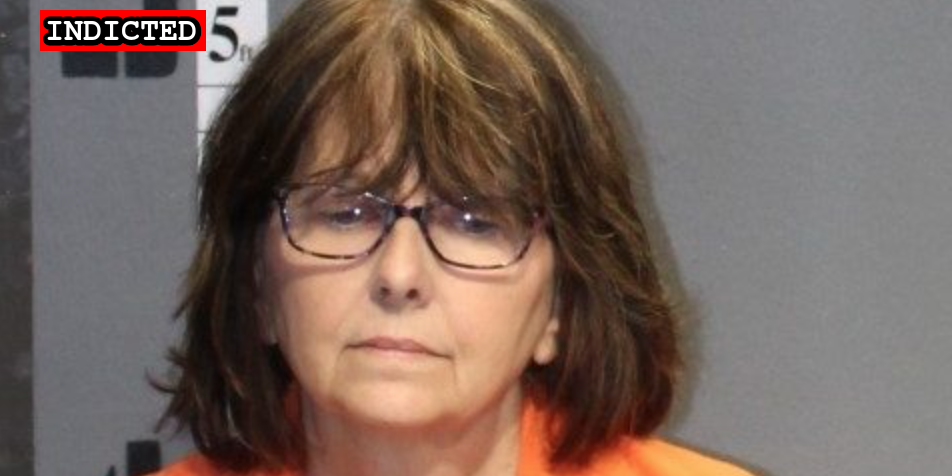
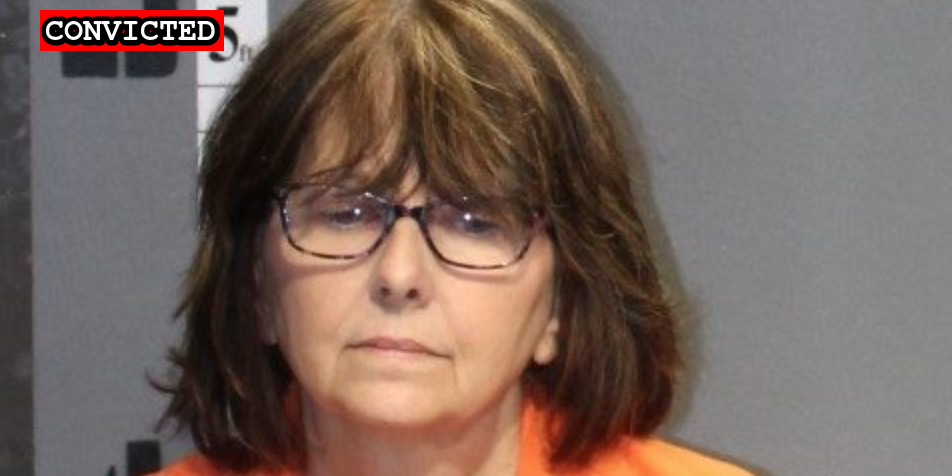
Latest import

Changed region(s): [[0.0305, 0.0, 0.2437, 0.1176]]

diff --git a/commands/suspect-import.ts b/commands/suspect-import.ts
@@ -284,9 +284,23 @@ const linkType = (description: string, lastName?: string) => {
     description = description.replace(/&#39;/g, "'")
 
     switch(true) {
+      case /Detention Order/.test(description):
+        return "Detention Order"
       case /Plea Agreement/.test(description):
       case /Grods Plea/.test(description):
         return "Plea Agreement"
+      case /Government's Motion to Continue/.test(description):
+        return "Government motion to Continue"
+      case /Defense Opposition to Government's Motion to Continue/.test(description):
+        return "Defense Opposition to Continue"
+      case /Government Reply to Opposition to Motion to Continue/.test(description):
+        return "Government's reploy to Defense Opposition to Continue"
+      case /Government's Motion to Modify Conditions of Release/.test(description):
+        return "Government's Motion to Modify Conditions of Release"
+      case /Defendant's Reply to Government's Memorandum in Opposition to Bond Review Motion/.test(description):
+        return "Defendant's Reply to Government's Opposition to Modifying Conditions of Release"
+      case /Defendant's Notice of Government's Violation of Due Process Protections Act/.test(description):
+        return "Defendant's Notice of Government's Violation of Due Process Protections Act"
       case /Affidavit/.test(description):
       case /Affidavit in Support of Criminal Complaint/.test(description):
       case /Affadavit/.test(description):
@@ -339,6 +353,7 @@ const linkType = (description: string, lastName?: string) => {
       case /Defense Motion for Modification of Bond/.test(description):
       case /Defendants Motion to Modify Bond Conditions/.test(description):
       case /Defense Motion to Modify Conditions of Release/.test(description):
+      case /Defendant's Motion for Bond Review/.test(description):
         return "Defense Motion for Modification of Bond"
       case /Defense Motion for Release/.test(description):
       case /Defendants Motion to Revoke Order of Detention/.test(description):
@@ -370,6 +385,7 @@ const linkType = (description: string, lastName?: string) => {
       case /Motion to Revoke Pretrial Release/.test(description):
         return "Motion to Revoke Pretrial Release"
       case /Governments Opposition to Defendants Motion to Modify Conditions of Release/.test(description):
+      case /Government's Memorandum in Opposition to Defendant's Bond Review Motion/.test(description):
         return "Government's Opposition to Modifying Conditions of Release"
       case /\.*Opposition to Defendant's Motion for Discovery/.test(description):
         return "Government's Opposition to Defendent's Motion for Discovery"

diff --git a/docs/_suspects/ethan-nordean.md b/docs/_suspects/ethan-nordean.md
@@ -30,14 +30,16 @@ layout: suspect
 published: true
 caseNumber: 1:21-cr-175
 videos:
-  - title: 21CR175_00001495_PARTIAL.mp4 (0:03:00)
-    url: https://propublica-data-j6cases-videos.s3.us-east-1.amazonaws.com/8a8f0be0ce2b013960702cde48001122.mp4
+- title: 21CR175_00001495_PARTIAL.mp4 (0:03:00)
+  url: https://propublica-data-j6cases-videos.s3.us-east-1.amazonaws.com/8a8f0be0ce2b013960702cde48001122.mp4
 charges:
 ---
-
 - [News Report](https://nytimes.com/live/2021/02/03/us/biden-administration#federal-officials-arrested-another-leader-of-the-proud-boys-ethan-nordean-in-the-capitol-riot-investigation)
 - [Statement of Facts](https://www.justice.gov/opa/page/file/1364196/download)
 - [DOJ Press Release](https://www.justice.gov/usao-dc/pr/member-proud-boys-charged-obstructing-official-proceeding-other-charges-related-jan-6)
 - [Indictment](https://www.justice.gov/usao-dc/case-multi-defendant/file/1415116/download)
 - [Government Response to Alleged Violation of Due Process](/filings/nordean-government-response.pdf)
 - [Government Opposition to Release](https://extremism.gwu.edu/sites/g/files/zaxdzs2191/f/Ethan%20Nordean%20Government%20Opposition%20to%20Defendants%20Motion%20to%20Lift%20Stay%20on%20Release%20Order.pdf)
+- [Motion to Revoke Pretrial Release](https://extremism.gwu.edu/sites/g/files/zaxdzs2191/f/Ethan%20Nordean%20Govt%20Motion%20to%20Revoke%20Pretrial%20Release.pdf)
+- [Detention Order](https://extremism.gwu.edu/sites/g/files/zaxdzs2191/f/Nordean%20Detention%20Order.pdf)
+- [Defendant's Notice of Government's Violation of Due Process Protections Act](https://extremism.gwu.edu/sites/g/files/zaxdzs2191/f/Ethan%20Nordean%20Notice.pdf)

diff --git a/docs/_suspects/douglas-sweet.md b/docs/_suspects/douglas-sweet.md
@@ -3,13 +3,13 @@ name: Douglas Sweet
 lastName: Sweet
 aka:
 residence: Virginia
-status: Indicted
+status: Convicted
 date: 2021-01-21
 charged: 2021-01-21
 indicted: 2021-01-15
-convicted: 
-sentenced: 
-dismissed: 
+convicted: 2021-08-10
+sentenced:
+dismissed:
 deceased:
 age: 58
 occupation:
@@ -22,17 +22,25 @@ courtroom:
 courthouse:
 raid:
 perpwalk:
-quote: "Trump asked all the patriots to show up, so I did."
+quote: 'Trump asked all the patriots to show up, so I did.'
 title: Douglas Sweet charged on January 21st, 2021
 description: Click for latest case details. Suspects innocent until proven guilty.
 author: seditiontrack
 layout: suspect
 published: true
 caseNumber: 1:21-cr-41
+videos:
+charges:
+  - code: '18 USC § 5104(e)(2)(G)'
+    title: 'Parading, Demonstrating or Picketing in a Capitol Building'
+    url: 'https://www.law.cornell.edu/uscode/text/40/5104'
+    felony: false
 ---
+
 - [News Report](https://www.wtkr.com/news/mathews-co-man-arrested-during-capitol-riot-trump-asked-all-the-patriots-to-show-up-so-i-did)
 - [DOJ Press Release](https://www.justice.gov/opa/pr/thirteen-charged-federal-court-following-riot-united-states-capitol)
 - [Complaint](https://www.justice.gov/opa/press-release/file/1351716/download)
 - [Statement of Facts](https://www.justice.gov/opa/press-release/file/1351721/download)
 - [Indictment](https://www.justice.gov/usao-dc/case-multi-defendant/file/1364786/download)
 - [Information](https://extremism.gwu.edu/sites/g/files/zaxdzs2191/f/Fichett%20et%20al%20Information_0.pdf)
+- [Plea Agreement](https://extremism.gwu.edu/sites/g/files/zaxdzs2191/f/Douglas%20Sweet%20Plea%20Agreement.pdf)

diff --git a/docs/_suspects/cindy-fitchett.md b/docs/_suspects/cindy-fitchett.md
@@ -3,13 +3,13 @@ name: Cindy Fitchett
 lastName: Fitchett
 aka:
 residence: Virginia
-status: Indicted
+status: Convicted
 date: 2021-01-21
 charged: 2021-01-21
 indicted: 2021-01-15
-convicted: 
-sentenced: 
-dismissed: 
+convicted: 2021-08-10
+sentenced:
+dismissed:
 deceased:
 age: 59
 occupation:
@@ -29,10 +29,18 @@ author: seditiontrack
 layout: suspect
 published: true
 caseNumber: 1:21-cr-41
+videos:
+charges:
+  - code: '18 USC § 5104(e)(2)(G)'
+    title: 'Parading, Demonstrating or Picketing in a Capitol Building'
+    url: 'https://www.law.cornell.edu/uscode/text/40/5104'
+    felony: false
 ---
+
 - [News Report](https://www.wtvr.com/news/local-news/cindy-fitchett-mathews-virginia-woman-arraigned-on-capitol-riot-charges-pleads-not-guilty)
 - [DOJ Press Release](https://www.justice.gov/opa/pr/thirteen-charged-federal-court-following-riot-united-states-capitol)
 - [Complaint](https://www.justice.gov/opa/press-release/file/1351716/download)
 - [Statement of Facts](https://www.justice.gov/opa/press-release/file/1351721/download)
 - [Indictment](https://www.justice.gov/usao-dc/case-multi-defendant/file/1364786/download)
 - [Information](https://extremism.gwu.edu/sites/g/files/zaxdzs2191/f/Fichett%20et%20al%20Information_0.pdf)
+- [Plea Agreement](https://extremism.gwu.edu/sites/g/files/zaxdzs2191/f/Cindy%20Fitchett%20Plea%20Agreement.pdf)

diff --git a/docs/_suspects/donovan-crowl.md b/docs/_suspects/donovan-crowl.md
@@ -28,8 +28,10 @@ description: Click for latest case details. Suspects considered innocent until p
 author: seditiontrack
 layout: suspect
 published: true
+caseNumber:
+videos:
+charges:
 ---
-
 - [News Report](https://www.washingtonpost.com/national-security/oath-keeper-three-percenter-arrests/2021/01/17/27e726f2-5847-11eb-a08b-f1381ef3d207_story.html)
 - [Self Incrimination](https://www.newyorker.com/news/news-desk/a-former-marine-stormed-the-capitol-as-part-of-a-far-right-militia)
 - [Complaint](https://www.justice.gov/opa/page/file/1356121/download)
@@ -37,3 +39,4 @@ published: true
 - [DOJ Press Release](https://www.justice.gov/opa/pr/three-individuals-affiliated-oath-keepers-indicted-federal-court-conspiracy-obstruct)
 - [Indictment](https://www.justice.gov/usao-dc/case-multi-defendant/file/1378526/download)
 - [Government Opposition to Reconsideration of Release](https://extremism.gwu.edu/sites/g/files/zaxdzs2191/f/Donovan%20Crowl%20Governments%20Opposition%20to%20Defendants%20Motion%20for%20Reconsideration%20of%20Detention%20Order.pdf)
+- [Detention Order](https://extremism.gwu.edu/sites/g/files/zaxdzs2191/f/Donovan%20Crowl%20Governments%20Opposition%20to%20Defendants%20Motion%20for%20Reconsideration%20of%20Detention%20Order.pdf)

diff --git a/docs/_suspects/richard-harris.md b/docs/_suspects/richard-harris.md
@@ -29,6 +29,12 @@ author: seditiontrack
 layout: suspect
 published: true
 caseNumber: 1:21-cr-001
+videos:
+charges:
 ---
 - [News Report](https://www.nbcmiami.com/news/local/man-arrested-in-south-florida-in-connection-with-jan-6-u-s-capitol-breach/2417430/)
 - [Indictment](https://www.justice.gov/usao-dc/case-multi-defendant/file/1381176/download)
+- [Detention Order](https://extremism.gwu.edu/sites/g/files/zaxdzs2191/f/Richard%20Harris%20Detention%20Order.pdf)
+- [Defense Motion for Modification of Bond](https://extremism.gwu.edu/sites/g/files/zaxdzs2191/f/Richard%20Harris%20Defendants%20Motion%20for%20Bond%20Review.pdf)
+- [Government's Opposition to Modifying Conditions of Release](https://extremism.gwu.edu/sites/g/files/zaxdzs2191/f/Richard%20Harris%20Governments%20Memo%20in%20Opposition%20to%20Defendants%20Motion%20for%20Bond%20Review.pdf)
+- [Defendant's Reply to Government's Opposition to Modifying Conditions of Release](https://extremism.gwu.edu/sites/g/files/zaxdzs2191/f/Richard%20Harris%20Defendants%20Motion%20for%20Bond%20Review.pdf)

diff --git a/docs/_suspects/robert-gieswein.md b/docs/_suspects/robert-gieswein.md
@@ -45,3 +45,6 @@ charges:
 - [Incriminating Evidence (VIDEO)](https://twitter.com/Cleavon_MD/status/1352172510603689991?s=20)
 - [Indictment](https://www.justice.gov/opa/page/file/1361206/download)
 - [Body Camera Evidence (VIDEO)](https://twitter.com/ryanjreilly/status/1425070641011695618)
+- [Government motion to Continue](https://extremism.gwu.edu/sites/g/files/zaxdzs2191/f/Robert%20Gieswein%20Defense%20Opposition%20to%20Government%20Motion%20to%20Exclude%20Time%20Under%20the%20Speedy%20Trial%20Act.pdf)
+- [Government's reploy to Defense Opposition to Continue](https://extremism.gwu.edu/sites/g/files/zaxdzs2191/f/Robert%20Gieswein%20Government%20Reply%20to%20Opposition%20to%20Motion%20to%20Continue%20and%20to%20Exclude%20Time%20Under%20the%20Speedy%20Trial%20Act.pdf)
+- [Detention Order](https://extremism.gwu.edu/sites/g/files/zaxdzs2191/f/Robert%20Gieswein%20Government%20Opposition%20to%20Motion%20for%20Hearing%20and%20Revocation%20of%20Detention%20Order.pdf)

diff --git a/docs/_suspects/christopher-quaglin.md b/docs/_suspects/christopher-quaglin.md
@@ -29,9 +29,12 @@ author: seditiontrack
 layout: suspect
 published: true
 caseNumber: 1:21-cr-40
+videos:
+charges:
 ---
 - [News Report](https://www.nbcnewyork.com/investigations/unemployed-nj-electrician-accused-of-being-at-forefront-of-u-s-capitol-siege/2986692/)
 - [Statement of Facts](https://www.justice.gov/usao-dc/case-multi-defendant/file/1384546/download)
 - [Complaint](https://www.justice.gov/usao-dc/case-multi-defendant/file/1384551/download)
 - [Motion for Pretrial Detention](https://extremism.gwu.edu/sites/g/files/zaxdzs2191/f/Christopher%20Quaglin%20Governments%20Memorandum%20in%20Support%20of%20Pre-Trial%20Detention.pdf)
 - [Indictment](https://www.justice.gov/usao-dc/case-multi-defendant/file/1410701/download)
+- [Detention Order](https://extremism.gwu.edu/sites/g/files/zaxdzs2191/f/Christopher%20Quaglin%20Detention%20Order.pdf)

diff --git a/docs/_suspects/joshua-james.md b/docs/_suspects/joshua-james.md
@@ -29,8 +29,11 @@ author: seditiontrack
 layout: suspect
 published: true
 caseNumber: 1:21-cr-28
+videos:
+charges:
 ---
 - [News Report](https://www.nbcnews.com/news/us-news/alabama-man-ties-oath-keepers-militia-arrested-connection-capitol-riot-n1260499)
 - [Statement of Facts](https://www.justice.gov/usao-dc/case-multi-defendant/file/1378886/download)
 - [Government Opposition to Reconsideration of Release](https://extremism.gwu.edu/sites/g/files/zaxdzs2191/f/Joshua%20James%20Govt%20Opposition%20to%20Defendants%20Motion%20for%20Revocation%20of%20Detention%20Order.pdf)
 - [Indictment](https://www.justice.gov/usao-dc/case-multi-defendant/file/1410391/download)
+- [Detention Order](https://extremism.gwu.edu/sites/g/files/zaxdzs2191/f/Joshua%20James%20Govt%20Opposition%20to%20Defendants%20Motion%20for%20Revocation%20of%20Detention%20Order.pdf)

diff --git a/docs/_suspects/joseph-hackett.md b/docs/_suspects/joseph-hackett.md
@@ -10,6 +10,7 @@ indicted: 2021-05-26
 convicted:
 sentenced:
 dismissed:
+deceased:
 age:
 occupation:
 affiliations: Oath Keepers
@@ -27,7 +28,10 @@ description: Click for latest case details. Suspects innocent until proven guilt
 author: seditiontrack
 layout: suspect
 published: true
+caseNumber:
+videos:
+charges:
 ---
-
 - [News Report](https://www.mysuncoast.com/2021/05/31/sarasota-man-facing-changes-jan-capitol-riot/)
 - [Indictment](https://www.justice.gov/usao-dc/press-release/file/1401076/download)
+- [Detention Order](https://extremism.gwu.edu/sites/g/files/zaxdzs2191/f/Joseph%20Hackett%20Motion%20to%20Revoke%20Detention%20Order.pdf)

diff --git a/docs/_suspects/jeffrey-grace.md b/docs/_suspects/jeffrey-grace.md
@@ -29,7 +29,10 @@ author: seditiontrack
 layout: suspect
 published: true
 caseNumber: 1:21-cr-296
+videos:
+charges:
 ---
 - [News Report](https://www.seattletimes.com/seattle-news/crime/clark-county-man-charged-with-entering-capitol-during-siege/)
 - [Statement of Facts](https://www.justice.gov/usao-dc/case-multi-defendant/file/1364691/download)
 - [Information](https://www.justice.gov/usao-dc/case-multi-defendant/file/1388636/download)
+- [Government's Motion to Modify Conditions of Release](https://extremism.gwu.edu/sites/g/files/zaxdzs2191/f/Jeffrey%20Grace%20Government%20Motion%20to%20Modify%20Pretrial%20Conditions%20of%20Release.pdf)
